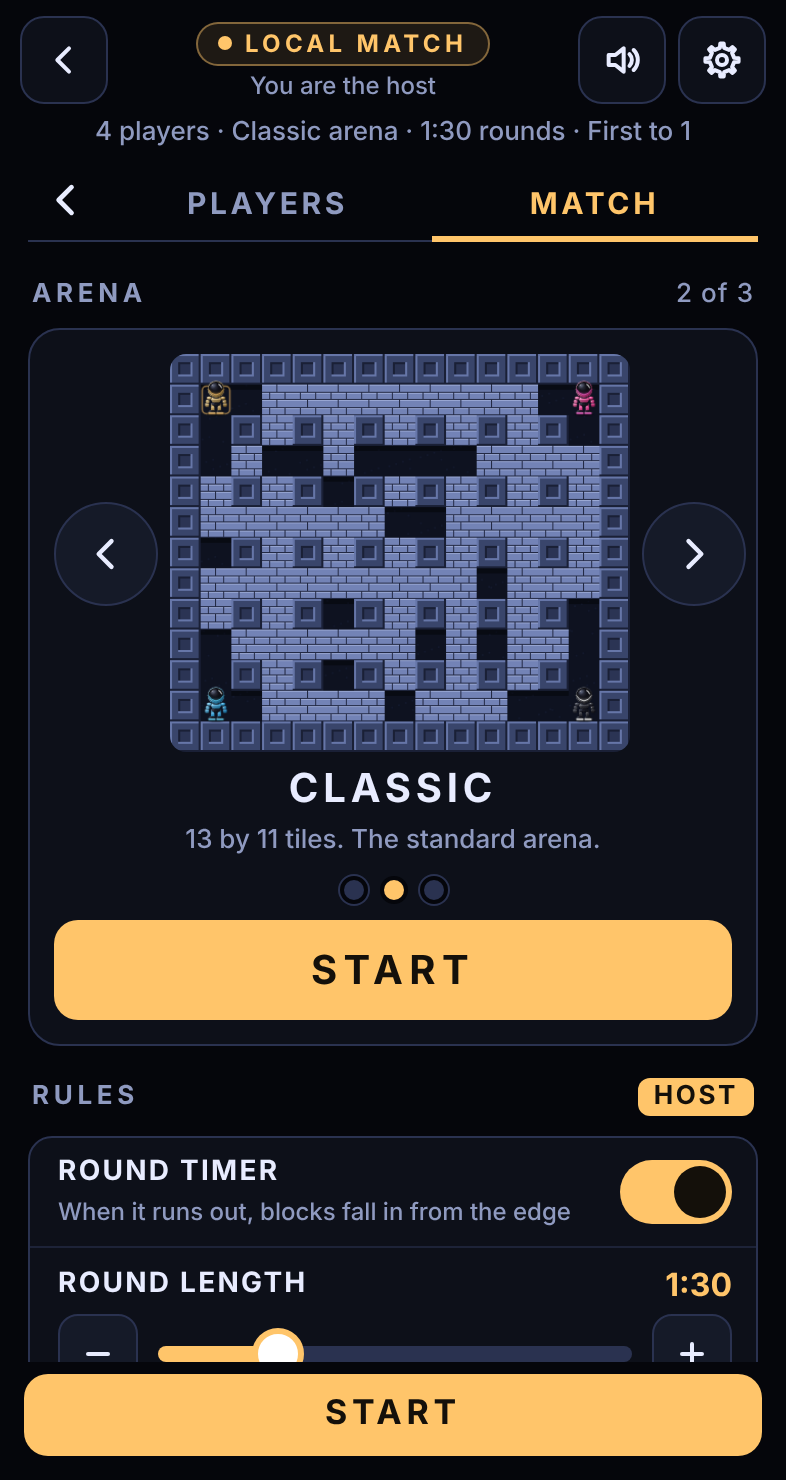
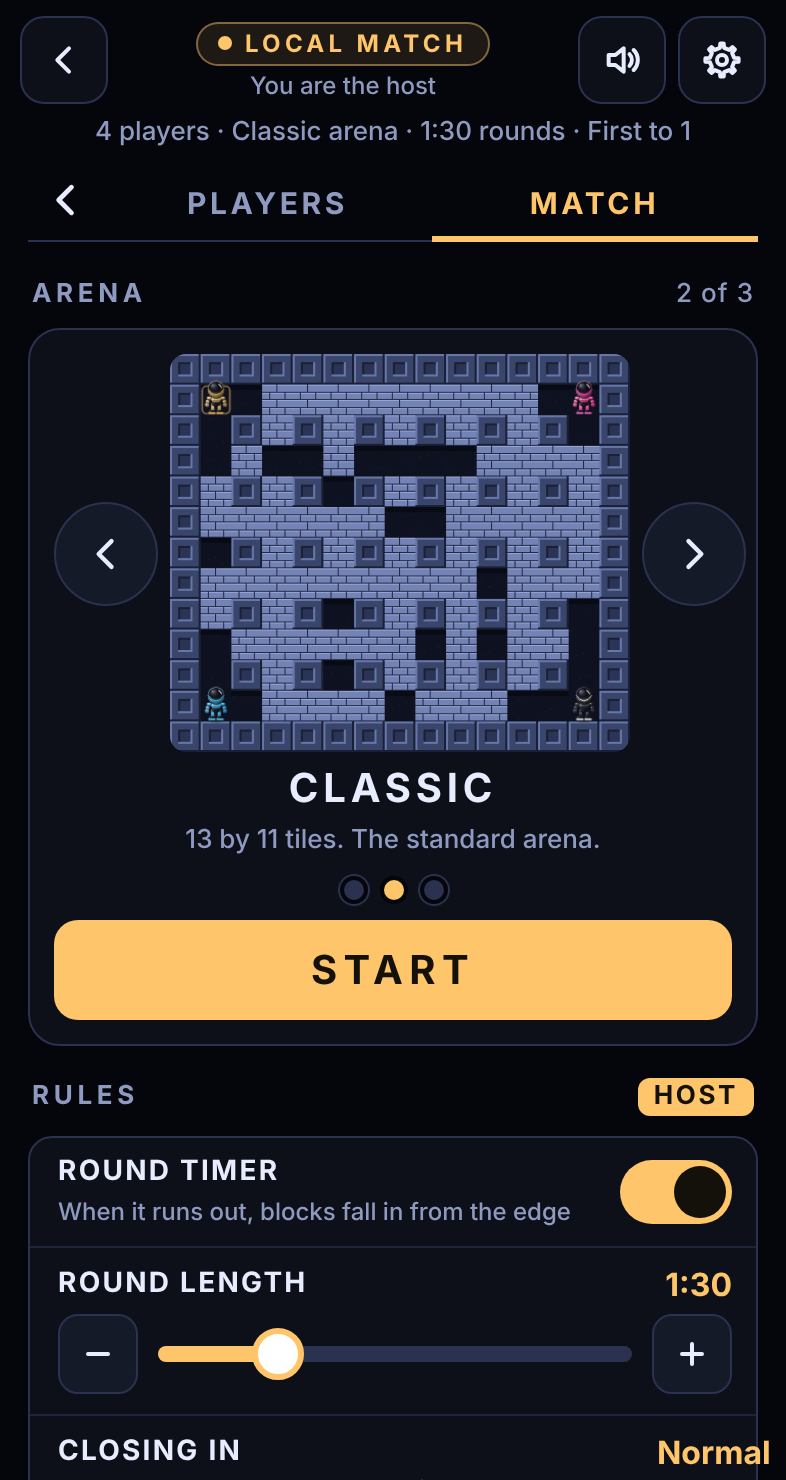
Lobby buttons at the end of each page, not fixed at the bottom
- The Players page ends with Next ›, dim until you press Ready
- The Match page ends with Start, after the rules (Start stays under the arena too)

Claude-Session: https://claude.ai/code/session_011ftAyXDt63myZfd3j4Vhew

Changed region(s): [[0.0305, 0.9014, 0.9771, 0.9946]]

diff --git a/src/page.html b/src/page.html
@@ -21,7 +21,7 @@
     lobby     setting up a match (lobby.ts): the bar (lobbyBack, lobbyMode, lobbySound, lobbySettings), the summary,
               lobbyPrev (‹ beside the page names) and two pages (pgPlayers, pgMatch): lobbyPlayers (your robot youBot with colPrev, colNext and the colour
               dots youDots; the name over them, youName, with editName, the pencil that swaps it for a box (myName) to type your own; the player cards in slots; allCpus) and lobbyMatch (the arena picture arenaPic with
-              arenaPrev, arenaNext, arenaDots, and a Start under it, arenaStart; the rules; rulesReset); then lobbyStart
+              arenaPrev, arenaNext, arenaDots, and a Start under it, arenaStart; the rules; rulesReset; startNote and lobbyStart, Start again at the end); playersNext ends lobbyPlayers
     cpuSheet  a CPU player's panel, over the lobby: colour and level (cpuRows), cpuRemove, cpuDone
     settings  your own settings, four pages: setControls (Steering thumb: handLeft, handRight; Swipe
               direction: dirStandard, dirMine, matchState, matchStart; padOpts; keys: remapKeys, resetKeys),
@@ -480,6 +480,9 @@
   }
   .name-field input::placeholder { color: #5d6788; font-weight: 500; }
   .name-field input:focus { outline: none; border-color: var(--accent); }
+  /* the button at the end of a lobby page: Next › (Players), Start (Match) */
+  .go.page-end { flex: 0 0 auto; align-self: stretch; margin: 18px 0 calc(10px + env(safe-area-inset-bottom)); padding: 15px 12px; font-size: 20px; letter-spacing: 0.16em; }
+  #lobby .foot-note { margin: 14px 0 0; }
   .go.arena-start { flex: 0 0 auto; align-self: stretch; padding: 15px 12px; font-size: 20px; letter-spacing: 0.16em; }
   .go.ok { flex: 0 0 auto; align-self: stretch; padding: 13px 12px; font-size: 16px; }
   .go.ok:disabled { opacity: 1; color: var(--accent); background: transparent; border: 1.5px solid rgba(255, 197, 106, 0.45); }
@@ -733,7 +736,7 @@
   <button id="btnA" class="tbtn" type="button" aria-label="A button, drop bomb">A</button>
 </div>
 
-<!-- The lobby: two pages, Players and Match, with one slim Start in the bottom bar on the Match page (none on the Players page).
+<!-- The lobby: two pages, Players and Match, with no bottom bar: each page ends with its button (Next ›, Start).
      main.ts and lobby.ts fill it in. On a wide screen both pages show side by side. -->
 <div id="lobby" class="screen" hidden>
   <header class="bar">
@@ -777,6 +780,8 @@
         <div class="sec-head"><span>Players</span><span id="playerCount"></span></div>
         <div class="slots" id="slots"></div>
         <div class="opts" id="allCpus"></div>
+        <!-- at the end of the page, not always on screen (the owner's ask): lit up once you have pressed Ready -->
+        <button class="go page-end" id="playersNext" type="button">Next ›</button>
       </section>
       <section id="lobbyMatch" class="page" role="tabpanel" aria-labelledby="pgMatch">
         <div class="sec-head"><span>Arena</span><span id="arenaCount"></span></div>
@@ -794,14 +799,13 @@
         <div class="sec-head"><span>Rules</span><span class="host-tag">Host</span></div>
         <div class="opts" id="rules"></div>
         <button class="mini wide" id="rulesReset" type="button">Put the rules back to normal</button>
+        <!-- Start again at the end of the page, not always on screen (the owner's ask) -->
+        <p class="foot-note" id="startNote" role="status"></p>
+        <button id="lobbyStart" class="go page-end" type="button" data-pad="≡">Start</button>
       </section>
     </div>
   </div>
   <div class="undo" id="undoBar" role="status" hidden><span id="undoText"></span><button class="mini" id="undoBtn" type="button">Undo</button></div>
-  <p class="foot-note" id="startNote" role="status"></p>
-  <footer class="foot one">
-    <button id="lobbyStart" class="go big" type="button" data-pad="≡">Start</button>
-  </footer>
 </div>
 
 <!-- A CPU player's panel: opens over the lobby when its card is tapped. -->

diff --git a/src/lobby.ts b/src/lobby.ts
@@ -624,9 +624,10 @@ export function createLobby(host: LobbyHost): {
   $('lobbyBack').addEventListener('click', () => host.back());
   $('lobbySound').addEventListener('click', () => host.settings('sound'));
   $('lobbySettings').addEventListener('click', () => host.settings());
-  // The main button, Start: on the Match page, or a wide screen showing both. The Players page has no bottom
-  // bar at all (the owner's ask): its ways on are Next › (Ready, once pressed), the Match page name, and RB or E.
+  // No bottom bar (the owner's ask): Start is at the end of the Match page (and under the arena), and Next › at
+  // the end of the Players page, lit once you are ready. Other ways on: Ready's own Next ›, the page name, RB or E.
   $('lobbyStart').addEventListener('click', tryStart);
+  $('playersNext').addEventListener('click', () => setPage('match'));
   // a second Start right under the arena picture, close to hand (the owner's ask); the same as the one in the bar
   $('arenaStart').addEventListener('click', tryStart);
   /** The other players here who have not pressed Ready (with the robot they are showing). */
@@ -777,11 +778,14 @@ export function createLobby(host: LobbyHost): {
     refreshRules();
     // the summary at the top, and whether Start can be pressed
     $('lobbySummary').textContent = summary(s(), G);
-    // the main button: Start on the Match page (or a wide screen); none on the Players page
+    // Start at the end of the Match page, Next › at the end of the Players page (lit once you are ready;
+    // not needed on a wide screen, which shows both pages)
     const go = $<HTMLButtonElement>('lobbyStart');
     const toMatch = page === 'players' && !wide();
-    go.parentElement!.hidden = toMatch;
-    go.dataset.pad = '≡'; // its hint
+    const nx = $<HTMLButtonElement>('playersNext');
+    nx.hidden = wide();
+    nx.disabled = !(ready && pick === host.myColor);
+    nx.setAttribute('aria-label', nx.disabled ? 'Next: press Ready first' : 'Next: the Match page');
     const why = problem(s(), G);
     go.disabled = !!why;
     ($('arenaStart') as HTMLButtonElement).disabled = !!why;
@@ -810,7 +814,7 @@ export function createLobby(host: LobbyHost): {
       nameBox.hidden = true;
       $('youName').hidden = false;
       setPage(p ?? page);
-      $(page === 'players' && !wide() ? 'colOk' : 'lobbyStart').focus({ preventScroll: true });
+      $(page === 'players' && !wide() ? 'colOk' : 'arenaStart').focus({ preventScroll: true });
     },
     hide(): void {
       hideUndo();

diff --git a/CLAUDE.md b/CLAUDE.md
@@ -38,7 +38,7 @@ Do not undo these unless asked. The reasons are in `docs/ROADMAP.md` and `docs/C
 - The robot stops where you let go. Whole-tile stepping was tried and rejected (`stepAssist` exists in `sim.ts` but stays off, with no menu setting).
 - A resting thumb has a quiet zone; small movements, slow drift and bounce-back are ignored. Its size is fixed (`QUIET` 30 px). A menu choice of swipe length was tried and removed: do not bring it back unless asked.
 - The Players page has no explanations (the owner's call): no help paragraphs, only a short "Swaps with P3" under your robot's name when Ready would swap with a CPU player. Settings' icon is a gear.
-- The lobby (`lobby.ts`, setup in `setup.ts`), built to the owner's notes on an approved mockup: every button works, back and forward work, more than one way to do each thing, a switch that reveals a slider under it, more options, each CPU player's level its own, and saying whether play is local or online. Two pages, Players and Match. The Players page cannot start a match (the owner's call) and has no bottom bar (the owner's ask); its ways on are Next › (Ready, once pressed), the Match page name, and RB or E. The bottom bars are slim (the owner's ask). The Match page's way back to Players is a ‹ at the top left beside the page names (`lobbyPrev`, the owner's ask), and its bar is **Start**; there is a second Start right under the arena picture (the owner's ask, to be close to hand; `arenaStart`, the same `tryStart`); Start when you are not ready asks first ("Are you ready?", its button just **Ready & Start**, no robot names, the owner's wording; the same button when other players here are not ready), and a line above the bar says you are not ready. On a wide screen both pages show side by side and the button is Start. Players: your colour by ‹ ›, dots or a swipe; once you press Ready the button becomes **Next ›**, on to the Match page (the owner's ask; just ✓ Ready on a wide screen); a card per player; a CPU player's panel (Colour, Level, Remove, Done); Add CPU player up to seven (eight players in all: the owner's limit); a bin on each CPU player's card removes it at once, with Undo; All CPUs. Match (the host's): the arena (Compact, Classic, Big) and the rules (Round timer with length and Closing in, Rounds to win, Bricks, Custom start, Custom power-ups; Put the rules back to normal). Sliders have − and + beside them. Saved as it changes. Build any new setting from `ui.ts` controls, and only add one that really does something.
+- The lobby (`lobby.ts`, setup in `setup.ts`), built to the owner's notes on an approved mockup: every button works, back and forward work, more than one way to do each thing, a switch that reveals a slider under it, more options, each CPU player's level its own, and saying whether play is local or online. Two pages, Players and Match. The Players page cannot start a match (the owner's call); its ways on are Next › (Ready, once pressed, and the one at the end of the page), the Match page name, and RB or E. The lobby has no fixed bottom bar (the owner's ask): each page ends with its button, seen once scrolled down: Next › (`playersNext`, dim until you are ready) and Start (`lobbyStart`, after the rules). The Settings bottom bar is slim. The Match page's way back to Players is a ‹ at the top left beside the page names (`lobbyPrev`, the owner's ask); there is also a Start right under the arena picture (the owner's ask, to be close to hand; `arenaStart`, the same `tryStart`); Start when you are not ready asks first ("Are you ready?", its button just **Ready & Start**, no robot names, the owner's wording; the same button when other players here are not ready), and a line above the bar says you are not ready. On a wide screen both pages show side by side and the button is Start. Players: your colour by ‹ ›, dots or a swipe; once you press Ready the button becomes **Next ›**, on to the Match page (the owner's ask; just ✓ Ready on a wide screen); a card per player; a CPU player's panel (Colour, Level, Remove, Done); Add CPU player up to seven (eight players in all: the owner's limit); a bin on each CPU player's card removes it at once, with Undo; All CPUs. Match (the host's): the arena (Compact, Classic, Big) and the rules (Round timer with length and Closing in, Rounds to win, Bricks, Custom start, Custom power-ups; Put the rules back to normal). Sliders have − and + beside them. Saved as it changes. Build any new setting from `ui.ts` controls, and only add one that really does something.
 - Each colour is a robot with a name of its own (`bot` in `COLORS`, `botName` in `render.ts`; Claude's names, asked for by the owner): Gold Auric, Black Onyx, Pink Fizz, Blue Volt, Red Blaze, Orange Tango, White Frost, Green Gizmo, Purple Vortex. The menus and results use these names in place of colour words: the big name over the colour dots in the lobby, the player cards, a CPU player's panel (its Robot choice), the menu's standings, "Volt wins the round", "Caught in Fizz's blast". A CPU player's name is its robot's, so it changes with its colour.
 - You can type your own name: the pencil beside the name over the colour dots swaps it for a box (`myName`; up to 12 characters, saved as `playerName`; Enter, a tap elsewhere or the pencil again finishes; emptied, it goes back to the robot's name). It shows there, on your player card and in the menu's standings in place of the robot's name or "You" (the owner's design, in place of a "Your name" row); results still say "You". Online, every real player will type theirs there. A typed name is always set as text, never as markup, and the game's keys (moves, A, B, Q, E) are ignored while typing (`typing` in `input.ts`).
 - Ask first (`confirmFirst` in `ui.ts`) before anything that cannot be undone: Restart, Leave to the lobby, Put the rules back to normal. Removing a CPU player (the bin on its card, or Remove on its panel) does not ask, as the owner wanted it quick: it shows an Undo bar for six seconds instead. Nothing else asks. Escape goes back one step everywhere; Q and E turn pages.

diff --git a/docs/CONTROLS.md b/docs/CONTROLS.md
@@ -46,7 +46,7 @@ The caption on the swipe pad (*Standard swipes* or *My thumb swipes*) is centred
   <img src="screenshots/menu-paused.png" alt="The menu opened in the middle of a round" width="200">
 </p>
 
-**Local** on the title screen opens the **lobby**, where a match is set up. It has two pages, **Players** and **Match**. The page names along the top switch pages, and on the Match page a **‹** at the top left, beside them, goes back to Players. The Players page has no bottom bar: once you have pressed **Ready**, that button becomes **Next ›**, which goes on to the Match page (or tap **Match** along the top). The Match page's bottom bar is one slim **Start**, and there is a second **Start** right under the arena picture. Either Start, when you are not ready, asks first. On a wide screen both pages show side by side.
+**Local** on the title screen opens the **lobby**, where a match is set up. It has two pages, **Players** and **Match**. The page names along the top switch pages, and on the Match page a **‹** at the top left, beside them, goes back to Players. There is no bar fixed at the bottom: each page ends with its own button, there once you scroll down. The Players page ends with **Next ›**, dim until you press **Ready** and lit after, which goes on to the Match page; Ready itself becomes **Next ›** too, and tapping **Match** along the top works as well. The Match page has **Start** right under the arena picture and again at the end, after the rules. Either Start, when you are not ready, asks first. On a wide screen both pages show side by side.
 
 - **Players:** your robot, with ‹ › either side, a dot for each colour under it, and a swipe across the robot: three ways to pick a colour. Each colour is a robot with its own name (Auric, Onyx, Fizz, Volt, Blaze, Tango, Frost, Gizmo, Vortex), shown over the dots and on the cards. The **pencil** beside that name lets you type your own name in its place. It shows on your robot, and becomes yours when you press **Ready** (or double-tap the dot): a **P1** tag pops up under it, your card shows **✓ Ready**, and the Ready button becomes **Next ›** (on a wide screen, where both pages show, it says **✓ Ready**). **P2** to **P8** sit under the CPU players' colours, and CPU players are always ready. Take a CPU player's colour and it gets the one you had. Picking another colour takes Ready away until you press it again. This page has no Start: its bottom bar is one wide **Match ›** button. Then a card for each player. Tap a CPU player's card for its panel: Colour, Level (with what that level does), Remove and Done. The **bin** on a CPU player's card removes it at once; an **Undo** bar shows for a few seconds. **Add CPU player** adds one, up to seven (eight players in all). With more than six players the arena grows by two tiles each way. **All CPUs** sets every CPU player's level at once.
 - **Match** (the host's): the arena, with ‹ ›, dots or a swipe (Compact 11 by 9 tiles, Classic 13 by 11, Big 15 by 13; the picture is the real arena, with the bricks the rules ask for), then the rules: Round timer (a switch; when on, Round length and Closing in appear under it; picking an arena puts in its own round length and closing speed), Rounds to win, Bricks, Custom start (a switch; Bombs, Blast and Speed under it), Custom power-ups (a switch; a slider for each power-up under it). **Put the rules back to normal** asks first.

diff --git a/docs/ROADMAP.md b/docs/ROADMAP.md
@@ -137,6 +137,7 @@ This is the brief the project started from.
 | Your name by a pencil, and no explanations on the Players page | The owner's design: a small pencil beside the name over the colour dots lets you type your own name in its place (a first version had a "Your name" row). The help paragraphs on the Players page were removed as unnecessary; only "Swaps with P3" shows when Ready would take a CPU player's colour. The Settings button is a gear. |
 | Each arena has its own time and closing speed | The owner asked for the rules to scale with the arena, and chose them one by one: Compact 1:00 rounds with the blocks closing in slightly faster (Quick, 42 s), Classic as it was (1:30, Normal 50 s), Big 2:00 with the same closing speed as Classic. They are put in every time an arena is picked, and can be changed after. Bricks and power-ups stay as they are, since they already scale with the number of tiles. Closing in gained two steps for this (Slow 60 s, Quick 42 s), and the old Slow and Fast became Very slow and Fast. (Claude had suggested Fast for Compact and Slow for Big, which would land blocks about 0.5 s apart on every arena; the owner chose otherwise.) |
 | Rounds to win is 1 by default | The owner's call: a match is one round unless the lobby says otherwise (it was first to 3). Setups saved before the change have their Rounds to win put back to 1 (`SETUP_VERSION` in `setup.ts`). |
+| Lobby buttons at the end of each page | The owner's ask: no bar fixed at the bottom of the lobby. The Players page ends with Next ›, dim until you press Ready; the Match page ends with Start, after the rules (and Start stays under the arena). |
 | Slim bottom bars, ‹ at the top, Ready then Next | The owner's ask: the bottom bars are smaller; the Match page's way back to Players is a ‹ at the top left, beside the page names, not in the bottom bar; once you press Ready it becomes Next ›, which goes to the Match page. |
 | A second Start under the arena | The owner's ask, so Start is close to hand on the Match page: a full-width Start under the arena picture, doing exactly what the Start in the bottom bar does. |
 | One Restart, for the whole match | The menu first had Restart round and New match. The owner had Restart round removed and asked for a Restart that restarts the game completely: everyone's score back to 0 and round 1 in a new arena, with the same players and rules. It asks first. |
